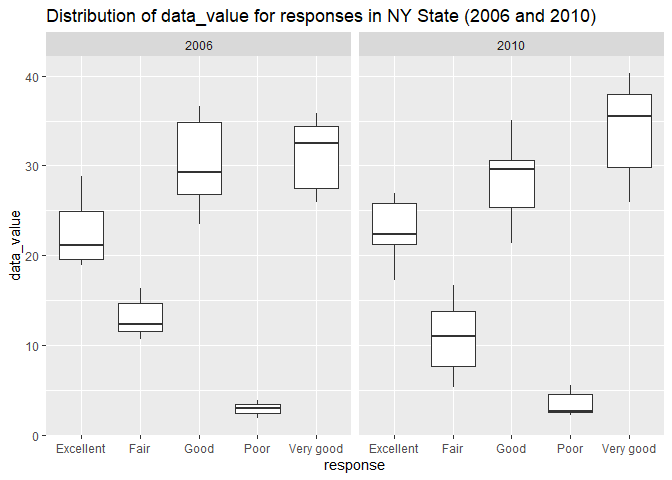
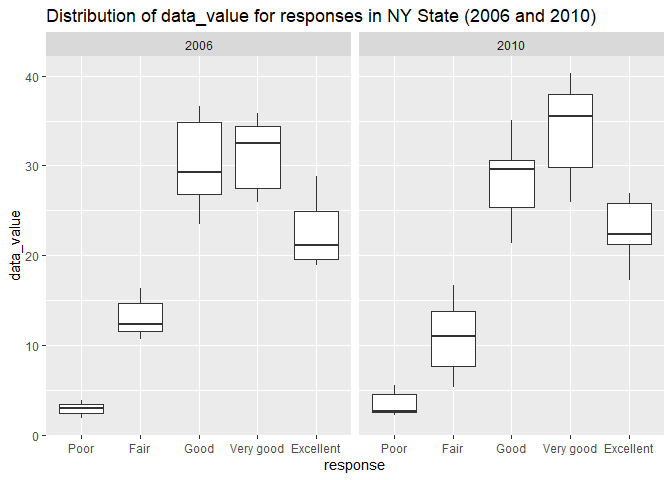
boxplot -- x-axis in order

diff --git a/p8105_hw3_yp2608.md b/p8105_hw3_yp2608.md
@@ -155,9 +155,9 @@ data("brfss_smart2010")
 df2 = brfss_smart2010 %>% 
   janitor::clean_names() %>% 
   filter(topic == "Overall Health") %>% 
-  mutate(response_rank = recode(response, 'Poor' = 0, 'Fair' = 1, 'Good' = 2, 'Very good' = 3, 'Excellent' = 4)) %>% 
-  arrange(response_rank) %>% 
-  select(-response_rank)
+  mutate(
+    response_rank = recode(response, 'Poor' = 0, 'Fair' = 1, 'Good' = 2, 'Very good' = 3, 'Excellent' = 4),
+    response = fct_reorder(response, response_rank))
 ```
 
 ``` r
